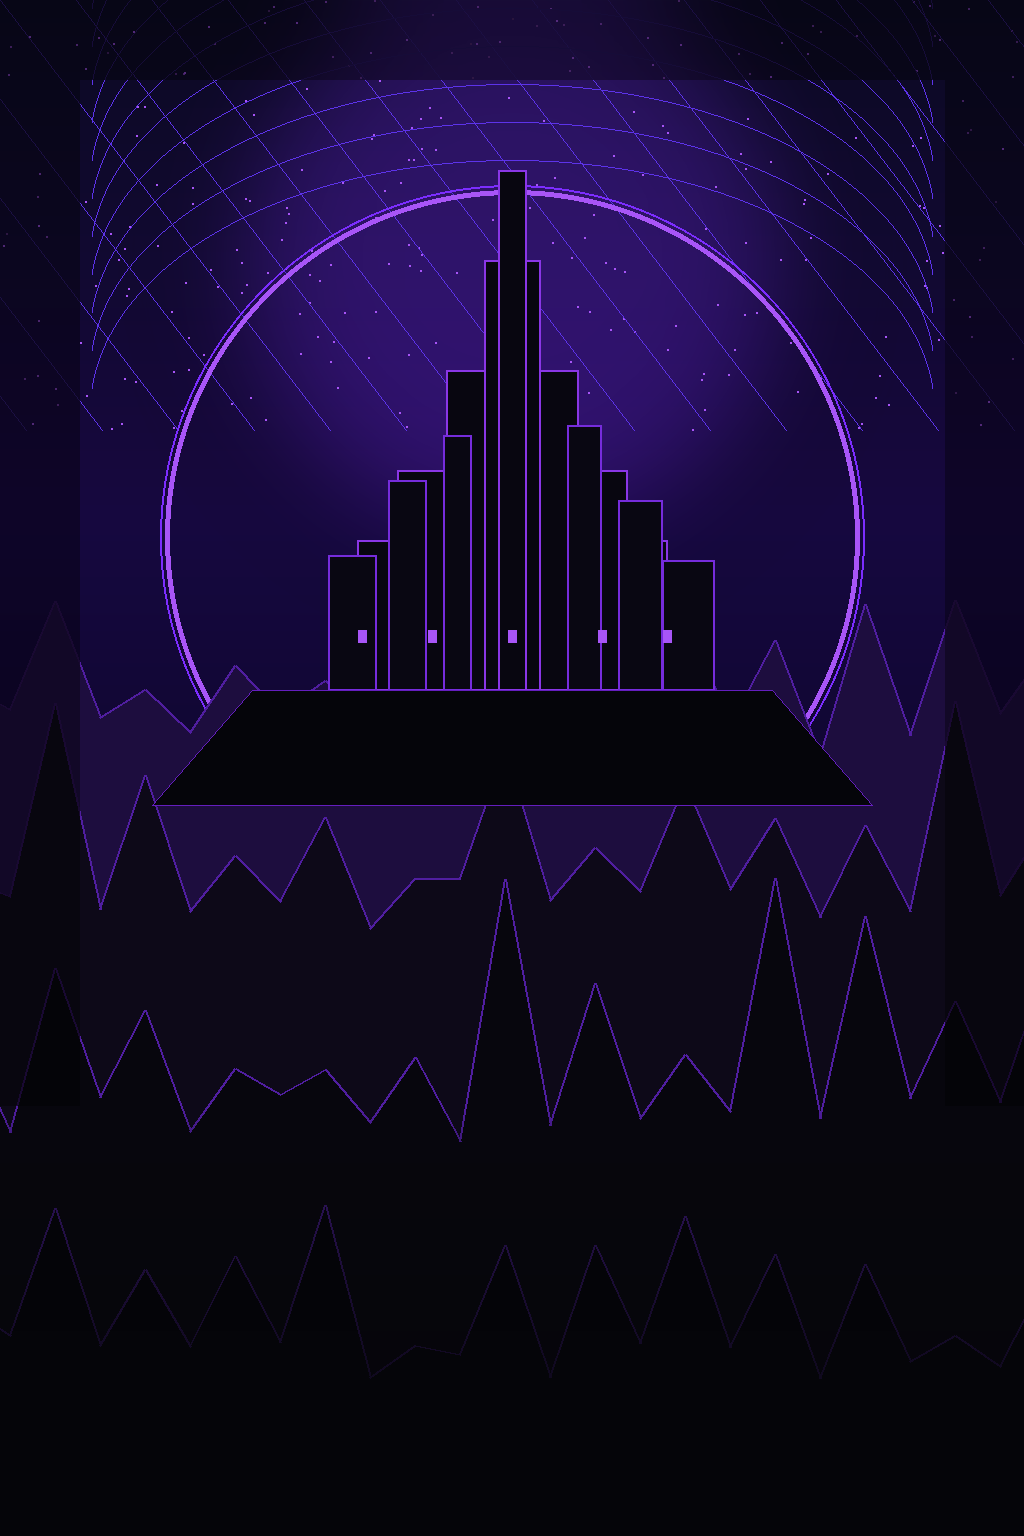
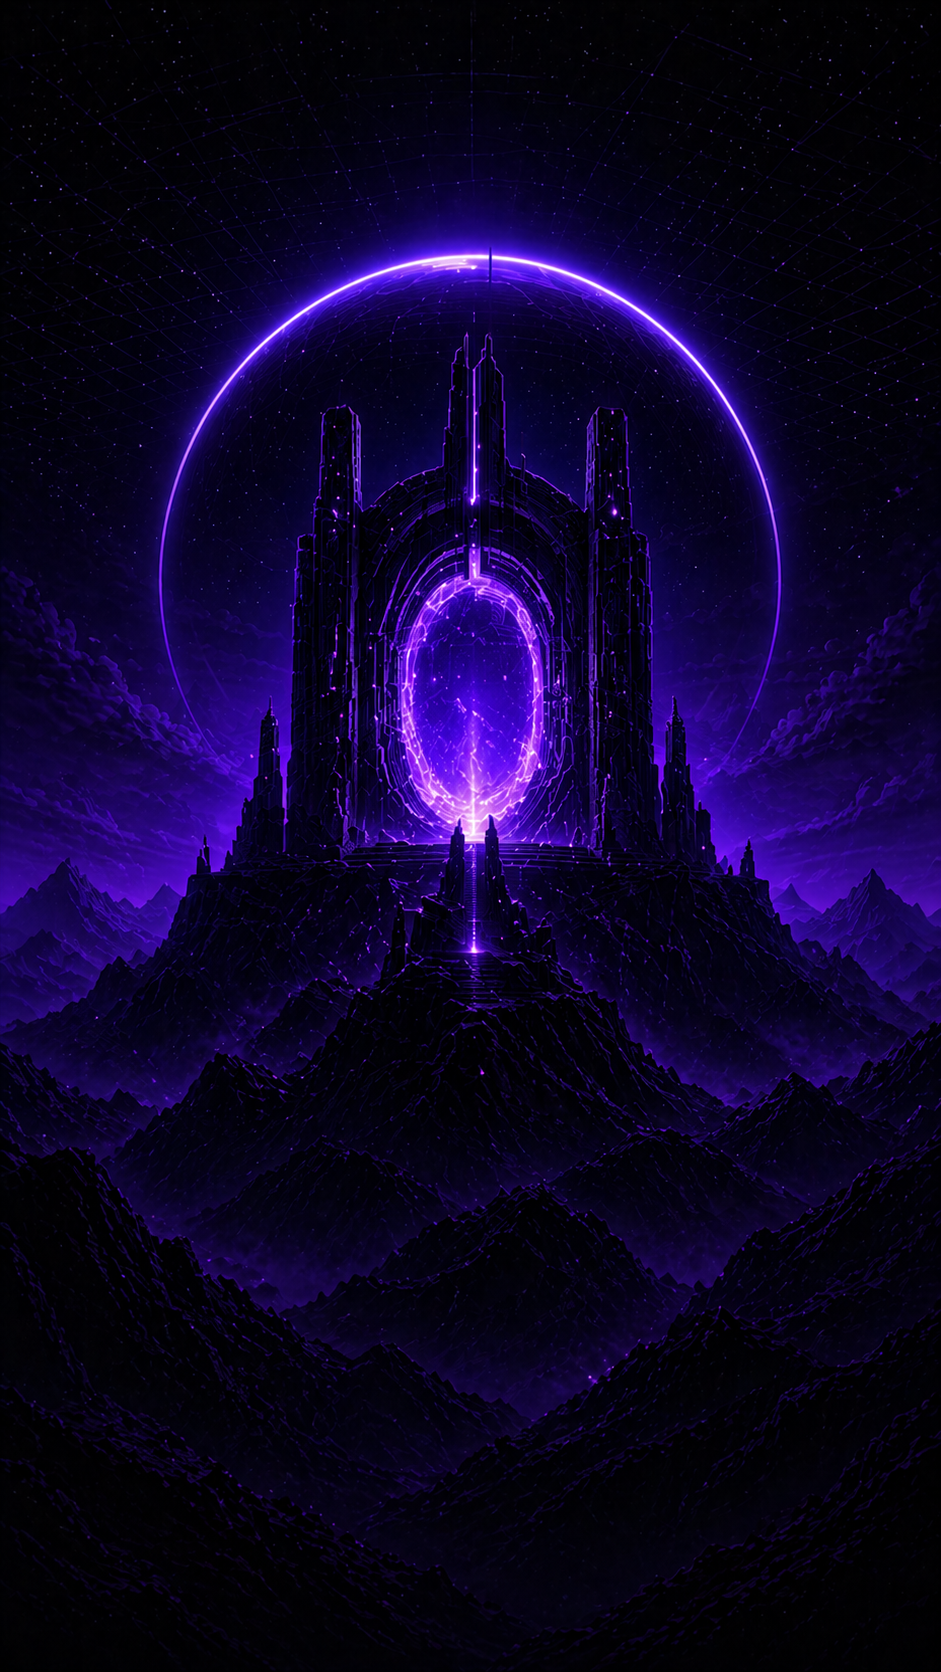
Use provided artwork across onboarding tutorial

diff --git a/src/screens/onboarding/OnboardingScreen.tsx b/src/screens/onboarding/OnboardingScreen.tsx
@@ -31,7 +31,12 @@ import type { RootStackParamList } from '../../navigation/types';
 
 type Props = NativeStackScreenProps<RootStackParamList, 'Onboarding'>;
 
-const welcomeHero = require('../../assets/images/welcome-hero.png');
+const onboardingArtworkBySlideId: Record<string, number> = {
+  privacy: require('../../assets/images/welcome-hero.png'),
+  devices: require('../../assets/images/Second page.png'),
+  files: require('../../assets/images/third page.png'),
+  control: require('../../assets/images/tutorial-final-background.png'),
+};
 
 export function OnboardingScreen({ navigation }: Props) {
   const [index, setIndex] = useState(0);
@@ -147,16 +152,17 @@ export function OnboardingScreen({ navigation }: Props) {
 }
 
 function OnboardingSlideView({ slide, width }: { slide: OnboardingSlide; width: number }) {
+  const artwork = onboardingArtworkBySlideId[slide.id] ?? onboardingArtworkBySlideId.privacy;
+
   return (
     <View style={[styles.slide, { width }]}>
       <View style={styles.heroFrame}>
-        <Image source={welcomeHero} resizeMode="contain" style={styles.heroArtwork} />
+        <Image source={artwork} resizeMode="cover" style={styles.heroArtwork} />
         <LinearGradient
-          colors={['rgba(5,5,9,0.00)', 'rgba(5,5,9,0.06)', 'rgba(5,5,9,0.70)']}
+          colors={['rgba(5,5,9,0.00)', 'rgba(5,5,9,0.08)', 'rgba(5,5,9,0.76)']}
           locations={[0, 0.58, 1]}
           style={StyleSheet.absoluteFill}
         />
-        <View pointerEvents="none" style={styles.heroArc} />
         <View style={styles.floatingIcon}>
           <Ionicons name={slide.icon as keyof typeof Ionicons.glyphMap} size={22} color={colors.primaryBright} />
         </View>
@@ -265,22 +271,12 @@ const styles = StyleSheet.create({
     elevation: 12,
   },
   heroArtwork: {
-    ...StyleSheet.absoluteFillObject,
-    width: '100%',
-    height: '100%',
-  },
-  heroArc: {
     position: 'absolute',
-    top: 64,
-    width: 210,
-    height: 210,
-    borderRadius: 105,
-    borderWidth: 1,
-    borderColor: 'rgba(168,85,247,0.42)',
-    shadowColor: colors.primaryBright,
-    shadowOffset: { width: 0, height: 0 },
-    shadowOpacity: 0.75,
-    shadowRadius: 18,
+    top: -128,
+    left: 0,
+    right: 0,
+    width: '100%',
+    height: 620,
   },
   floatingIcon: {
     position: 'absolute',
